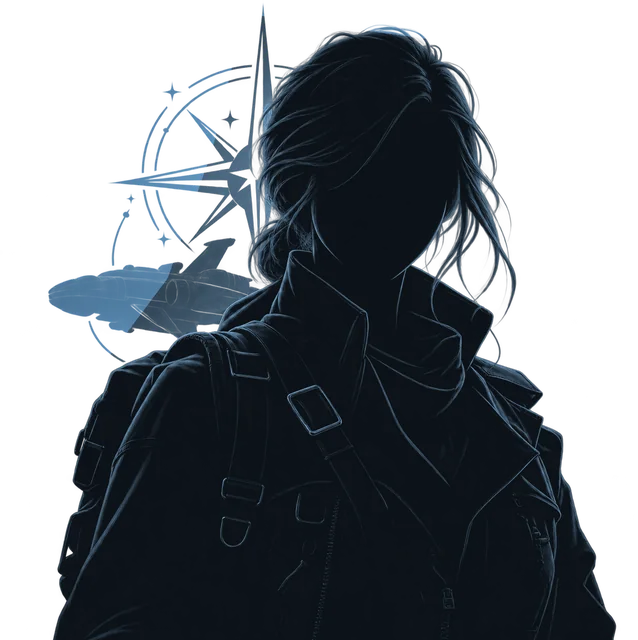
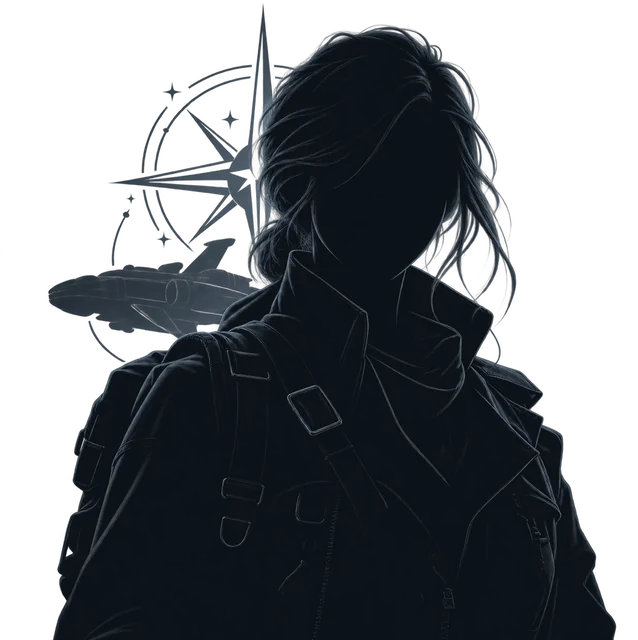
Update Website

diff --git a/index.html b/index.html
@@ -638,16 +638,22 @@ body.wasted-mode .wrap,body.wasted-mode .bar,body.wasted-mode #stars{filter:gray
 .start:hover .start-ring{animation:s-ring 2.8s ease-out infinite}
 @keyframes s-ring{0%{transform:scale(.9);opacity:.26}100%{transform:scale(1.22);opacity:0}}
 .sf{position:absolute;inset:0;color:var(--acc);overflow:hidden}
-.sf-fig,.sf-key{position:absolute;left:50%;bottom:0;transform:translateX(-50%);height:100%;width:auto;max-width:100%;object-fit:contain}
+.sf-fig,.sf-glow{position:absolute;left:50%;bottom:0;transform:translateX(-50%);height:100%;width:auto;max-width:100%;object-fit:contain}
 .sf-fig{filter:drop-shadow(0 0 16px var(--acc-soft))}
-.sf-key{opacity:0;filter:drop-shadow(0 0 10px var(--acc))}
+.sf-glow{opacity:0;filter:drop-shadow(0 0 12px var(--acc));transition:opacity .4s ease}
 main section.in .sf-fig{animation:s-in 1s cubic-bezier(.2,.9,.25,1) backwards,s-breathe 7s ease-in-out infinite;animation-delay:calc(var(--i) * .13s + .1s),calc(var(--i) * .5s + 1s)}
-main section.in .sf-key{animation:s-key 4.4s ease-in-out infinite;animation-delay:calc(var(--i) * .45s + 1.2s)}
+
 @keyframes s-in{from{opacity:0;transform:translateX(-50%) translateY(14px) scale(.98)}}
 @keyframes s-breathe{0%,100%{filter:drop-shadow(0 0 12px var(--acc-soft))}50%{filter:drop-shadow(0 0 24px var(--acc-soft))}}
-@keyframes s-key{0%,100%{opacity:0}42%,64%{opacity:1}}
+
 .start:hover .sf-fig{filter:drop-shadow(0 0 28px var(--acc-soft))}
-.start:hover .sf-key{opacity:1;animation:none}
+.start:hover .sf-glow,.start.lit .sf-glow,.start:focus-visible .sf-glow{opacity:1;animation:none}
+.start.lit{border-color:var(--acc)}
+.start.lit .sf-frame{opacity:.9}
+@media (hover:none){
+  main section.in .sf-glow{animation:g-breathe 7.5s ease-in-out infinite;animation-delay:calc(var(--i) * .9s + 1.2s)}
+  @keyframes g-breathe{0%,100%{opacity:0}42%,58%{opacity:.9}}
+}
 /* терминальная рябь и развёртка */
 .sf-scan{position:absolute;inset:-10% -2%;pointer-events:none;
   background:repeating-linear-gradient(0deg,rgba(255,255,255,.045) 0 1px,transparent 1px 3px);opacity:.5}
@@ -1847,16 +1853,16 @@ function musicUI(){
 }
 
 const START_IMG = {
-  crew:  { fig:"assets/starts/crew.webp" },
-  staff: { fig:"assets/starts/staff.webp", key:"assets/starts/staff-key.webp" },
-  guest: { fig:"assets/starts/guest.webp" },
-  alien: { fig:"assets/starts/alien.webp" },
+  crew:  { fig:"assets/starts/crew.webp",  glow:"assets/starts/crew-glow.webp" },
+  staff: { fig:"assets/starts/staff.webp", glow:"assets/starts/staff-glow.webp" },
+  guest: { fig:"assets/starts/guest.webp", glow:"assets/starts/guest-glow.webp" },
+  alien: { fig:"assets/starts/alien.webp", glow:"assets/starts/alien-glow.webp" },
 };
 function figure(kind, n){
   const im = START_IMG[kind] || {};
   return `<div class="sf">
     <img class="sf-fig" src="${im.fig || ""}" alt="" onerror="this.remove()">
-    ${im.key ? `<img class="sf-key" src="${im.key}" alt="" aria-hidden="true" onerror="this.remove()">` : ""}
+    <img class="sf-glow" src="${im.glow || ""}" alt="" aria-hidden="true" onerror="this.remove()">
     <span class="sf-scan" aria-hidden="true"></span>
     <span class="sf-sweep" aria-hidden="true"></span>
     <span class="sf-frame" aria-hidden="true"></span>
@@ -1865,7 +1871,7 @@ function figure(kind, n){
   </div>`;
 }
 function startsHTML(){
-  const cards = STARTS.map((s, i) => `<article class="start glass ${s.accent}" style="--i:${i}">
+  const cards = STARTS.map((s, i) => `<article class="start glass ${s.accent}" style="--i:${i}" data-act="lit" tabindex="0" role="button" aria-pressed="false">
       <div class="start-art">${figure(s.fig, i + 1)}</div>
       <div class="start-body">
         <p class="brief-lbl">${esc(tr(s.sub))}</p>
@@ -2212,6 +2218,8 @@ function typeStatus(){
 
 /* ---------- events ---------- */
 document.addEventListener("click", e => {
+  const litCard = e.target.closest('.start[data-act="lit"]');
+  if(litCard && !e.target.closest("a")){ const on = litCard.classList.toggle("lit"); litCard.setAttribute("aria-pressed", on ? "true" : "false"); }
   const go = e.target.closest(".fleet-go"); if(go){ e.preventDefault(); $("#crew-strip")?.scrollIntoView({behavior:"smooth"}); return; }
   if(e.target.closest("#menuBtn")){ document.body.classList.toggle("menu-open"); $("#menuBtn").setAttribute("aria-expanded", document.body.classList.contains("menu-open")); return; }
   if(e.target.closest("#topnav a")) document.body.classList.remove("menu-open");
